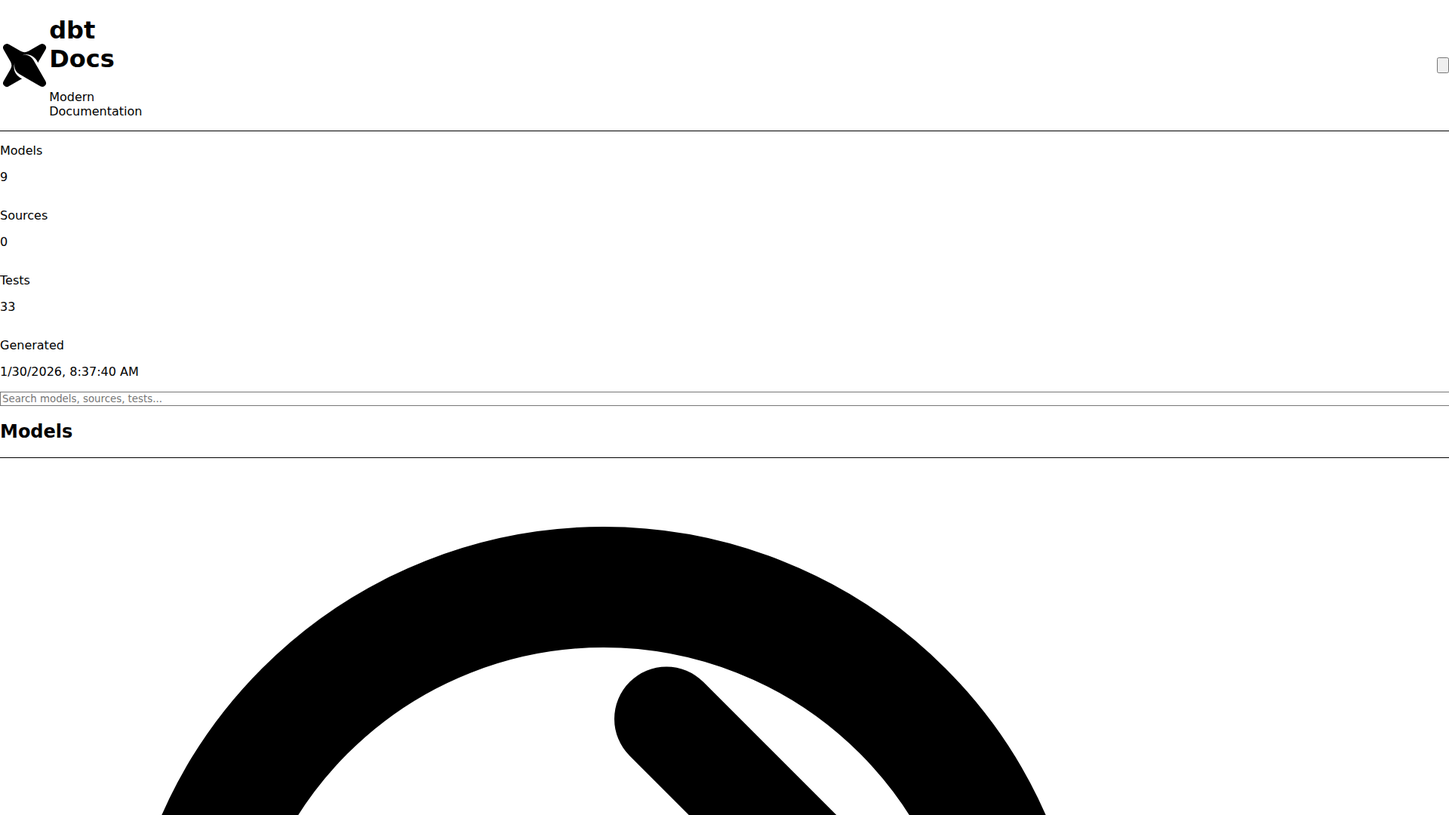
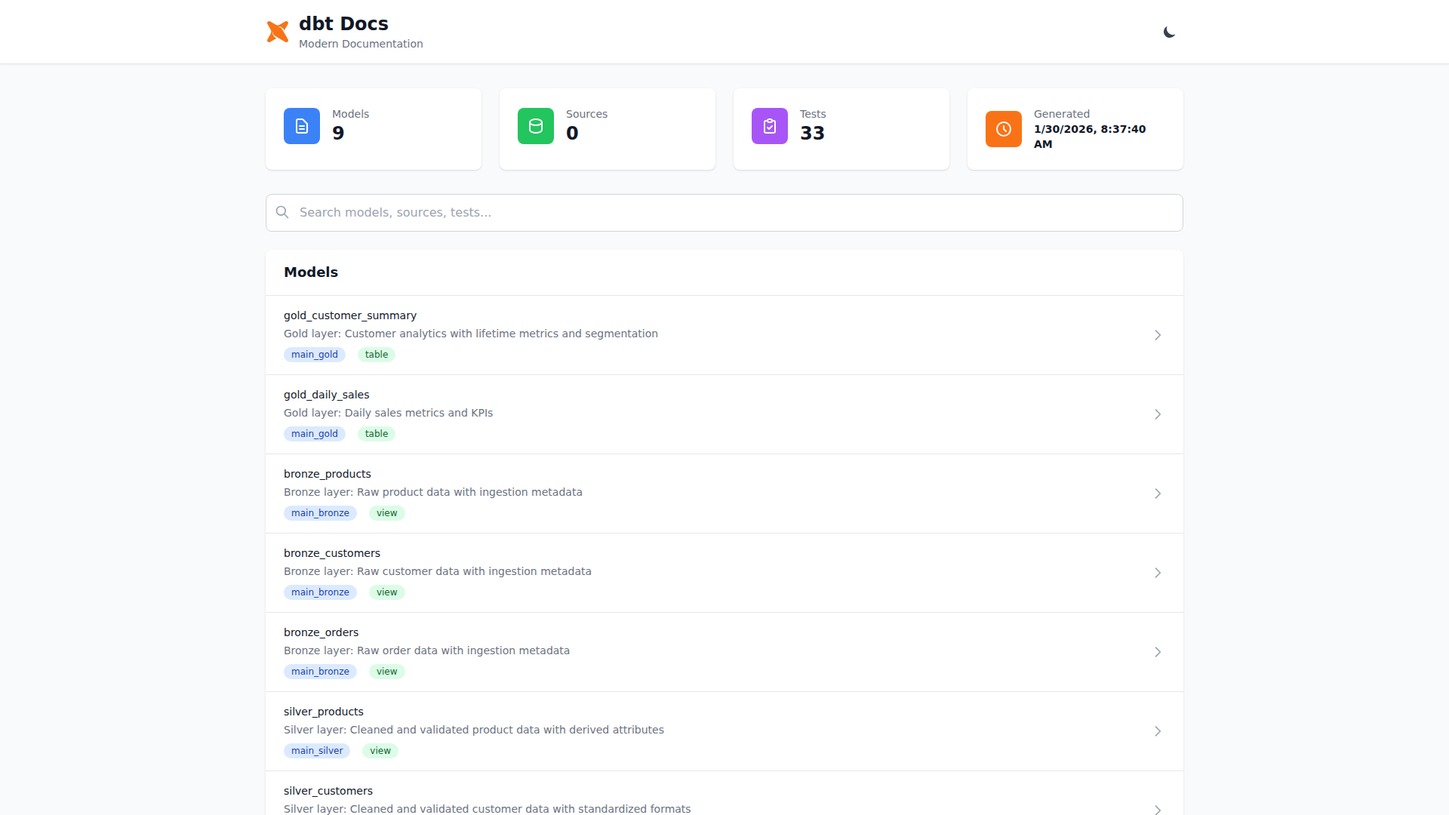
Fix: Update modern-docs.html with proper Tailwind 3 CSS
- All styles now properly rendered
- File size: 30KB (was 22KB, now includes all utility classes)
- Beautiful modern UI with correct colors, spacing, shadows
- Updated screenshot

diff --git a/demo/modern-docs.html b/demo/modern-docs.html
@@ -5,7 +5,7 @@
     <meta name="viewport" content="width=device-width, initial-scale=1.0" />
     <title>dbt Docs - Modern</title>
     <script type="module" crossorigin>(function(){const e=document.createElement("link").relList;if(e&&e.supports&&e.supports("modulepreload"))return;for(const s of document.querySelectorAll('link[rel="modulepreload"]'))i(s);new MutationObserver(s=>{for(const o of s)if(o.type==="childList")for(const g of o.addedNodes)g.tagName==="LINK"&&g.rel==="modulepreload"&&i(g)}).observe(document,{childList:!0,subtree:!0});function l(s){const o={};return s.integrity&&(o.integrity=s.integrity),s.referrerPolicy&&(o.referrerPolicy=s.referrerPolicy),s.crossOrigin==="use-credentials"?o.credentials="include":s.crossOrigin==="anonymous"?o.credentials="omit":o.credentials="same-origin",o}function i(s){if(s.ep)return;s.ep=!0;const o=l(s);fetch(s.href,o)}})();function Z(){}function qe(t){return t()}function Ae(){return Object.create(null)}function fe(t){t.forEach(qe)}function Ge(t){return typeof t=="function"}function Qe(t,e){return t!=t?e==e:t!==e||t&&typeof t=="object"||typeof t=="function"}function Ue(t){return Object.keys(t).length===0}function r(t,e){t.appendChild(e)}function B(t,e,l){t.insertBefore(e,l||null)}function z(t){t.parentNode&&t.parentNode.removeChild(t)}function Ze(t,e){for(let l=0;l<t.length;l+=1)t[l]&&t[l].d(e)}function a(t){return document.createElement(t)}function S(t){return document.createElementNS("http://www.w3.org/2000/svg",t)}function C(t){return document.createTextNode(t)}function m(){return C(" ")}function Je(t,e,l,i){return t.addEventListener(e,l,i),()=>t.removeEventListener(e,l,i)}function n(t,e,l){l==null?t.removeAttribute(e):t.getAttribute(e)!==l&&t.setAttribute(e,l)}function We(t){return Array.from(t.childNodes)}function O(t,e){e=""+e,t.data!==e&&(t.data=e)}function He(t,e){t.value=e??""}let W;function J(t){W=t}function Xe(){if(!W)throw new Error("Function called outside component initialization");return W}function Ye(t){Xe().$$.on_mount.push(t)}const Q=[],Ne=[];let U=[];const Se=[],et=Promise.resolve();let xe=!1;function tt(){xe||(xe=!0,et.then(Ke))}function _e(t){U.push(t)}const be=new Set;let K=0;function Ke(){if(K!==0)return;const t=W;do{try{for(;K<Q.length;){const e=Q[K];K++,J(e),lt(e.$$)}}catch(e){throw Q.length=0,K=0,e}for(J(null),Q.length=0,K=0;Ne.length;)Ne.pop()();for(let e=0;e<U.length;e+=1){const l=U[e];be.has(l)||(be.add(l),l())}U.length=0}while(Q.length);for(;Se.length;)Se.pop()();xe=!1,be.clear(),J(t)}function lt(t){if(t.fragment!==null){t.update(),fe(t.before_update);const e=t.dirty;t.dirty=[-1],t.fragment&&t.fragment.p(t.ctx,e),t.after_update.forEach(_e)}}function rt(t){const e=[],l=[];U.forEach(i=>t.indexOf(i)===-1?e.push(i):l.push(i)),l.forEach(i=>i()),U=e}const nt=new Set;function it(t,e){t&&t.i&&(nt.delete(t),t.i(e))}function Te(t){return t?.length!==void 0?t:Array.from(t)}function st(t,e,l){const{fragment:i,after_update:s}=t.$$;i&&i.m(e,l),_e(()=>{const o=t.$$.on_mount.map(qe).filter(Ge);t.$$.on_destroy?t.$$.on_destroy.push(...o):fe(o),t.$$.on_mount=[]}),s.forEach(_e)}function ot(t,e){const l=t.$$;l.fragment!==null&&(rt(l.after_update),fe(l.on_destroy),l.fragment&&l.fragment.d(e),l.on_destroy=l.fragment=null,l.ctx=[])}function at(t,e){t.$$.dirty[0]===-1&&(Q.push(t),tt(),t.$$.dirty.fill(0)),t.$$.dirty[e/31|0]|=1<<e%31}function dt(t,e,l,i,s,o,g=null,u=[-1]){const v=W;J(t);const c=t.$$={fragment:null,ctx:[],props:o,update:Z,not_equal:s,bound:Ae(),on_mount:[],on_destroy:[],on_disconnect:[],before_update:[],after_update:[],context:new Map(e.context||(v?v.$$.context:[])),callbacks:Ae(),dirty:u,skip_bound:!1,root:e.target||v.$$.root};g&&g(c.root);let x=!1;if(c.ctx=l?l(t,e.props||{},(f,_,...L)=>{const p=L.length?L[0]:_;return c.ctx&&s(c.ctx[f],c.ctx[f]=p)&&(!c.skip_bound&&c.bound[f]&&c.bound[f](p),x&&at(t,f)),_}):[],c.update(),x=!0,fe(c.before_update),c.fragment=i?i(c.ctx):!1,e.target){if(e.hydrate){const f=We(e.target);c.fragment&&c.fragment.l(f),f.forEach(z)}else c.fragment&&c.fragment.c();e.intro&&it(t.$$.fragment),st(t,e.target,e.anchor),Ke()}J(v)}class ct{$$=void 0;$$set=void 0;$destroy(){ot(this,1),this.$destroy=Z}$on(e,l){if(!Ge(l))return Z;const i=this.$$.callbacks[e]||(this.$$.callbacks[e]=[]);return i.push(l),()=>{const s=i.indexOf(l);s!==-1&&i.splice(s,1)}}$set(e){this.$$set&&!Ue(e)&&(this.$$.skip_bound=!0,this.$$set(e),this.$$.skip_bound=!1)}}const ut="4";typeof window<"u"&&(window.__svelte||(window.__svelte={v:new Set})).v.add(ut);function Pe(t,e,l){const i=t.slice();return i[12]=e[l],i}function ft(t){let e,l;return{c(){e=S("svg"),l=S("path"),n(l,"d","M17.293 13.293A8 8 0 016.707 2.707a8.001 8.001 0 1010.586 10.586z"),n(e,"class","w-5 h-5 text-gray-700"),n(e,"fill","currentColor"),n(e,"viewBox","0 0 20 20")},m(i,s){B(i,e,s),r(e,l)},d(i){i&&z(e)}}}function gt(t){let e,l;return{c(){e=S("svg"),l=S("path"),n(l,"d","M10 2a1 1 0 011 1v1a1 1 0 11-2 0V3a1 1 0 011-1zm4 8a4 4 0 11-8 0 4 4 0 018 0zm-.464 4.95l.707.707a1 1 0 001.414-1.414l-.707-.707a1 1 0 00-1.414 1.414zm2.12-10.607a1 1 0 010 1.414l-.706.707a1 1 0 11-1.414-1.414l.707-.707a1 1 0 011.414 0zM17 11a1 1 0 100-2h-1a1 1 0 100 2h1zm-7 4a1 1 0 011 1v1a1 1 0 11-2 0v-1a1 1 0 011-1zM5.05 6.464A1 1 0 106.465 5.05l-.708-.707a1 1 0 00-1.414 1.414l.707.707zm1.414 8.486l-.707.707a1 1 0 01-1.414-1.414l.707-.707a1 1 0 011.414 1.414zM4 11a1 1 0 100-2H3a1 1 0 000 2h1z"),n(e,"class","w-5 h-5 text-yellow-500"),n(e,"fill","currentColor"),n(e,"viewBox","0 0 20 20")},m(i,s){B(i,e,s),r(e,l)},d(i){i&&z(e)}}}function ht(t){let e,l,i,s,o,g,u,v,c,x,f=t[2].length+"",_,L,p,d,y,k,b,w,A,X,Y=t[8].length+"",ge,ye,ee,P,te,ke,D,le,we,re,ne=t[7].length+"",he,Me,ie,V,se,Le,I,oe,$e,ae,de=Re(t[0].metadata.generated_at)+"",pe,je,ce,F,H,Ce,T,R,ze,q,ue,Ee,N,me,ve,Oe,G=Te(t[6].slice(0,20)),$=[];for(let h=0;h<G.length;h+=1)$[h]=Ie(Pe(t,G,h));let j=t[6].length===0&&Fe(t);return{c(){e=a("div"),l=a("div"),i=a("div"),s=a("div"),o=a("div"),o.innerHTML='<svg class="w-6 h-6 text-white" fill="none" stroke="currentColor" viewBox="0 0 24 24"><path stroke-linecap="round" stroke-linejoin="round" stroke-width="2" d="M9 12h6m-6 4h6m2 5H7a2 2 0 01-2-2V5a2 2 0 012-2h5.586a1 1 0 01.707.293l5.414 5.414a1 1 0 01.293.707V19a2 2 0 01-2 2z"></path></svg>',g=m(),u=a("div"),v=a("p"),v.textContent="Models",c=m(),x=a("p"),_=C(f),L=m(),p=a("div"),d=a("div"),y=a("div"),y.innerHTML='<svg class="w-6 h-6 text-white" fill="none" stroke="currentColor" viewBox="0 0 24 24"><path stroke-linecap="round" stroke-linejoin="round" stroke-width="2" d="M4 7v10c0 2.21 3.582 4 8 4s8-1.79 8-4V7M4 7c0 2.21 3.582 4 8 4s8-1.79 8-4M4 7c0-2.21 3.582-4 8-4s8 1.79 8 4"></path></svg>',k=m(),b=a("div"),w=a("p"),w.textContent="Sources",A=m(),X=a("p"),ge=C(Y),ye=m(),ee=a("div"),P=a("div"),te=a("div"),te.innerHTML='<svg class="w-6 h-6 text-white" fill="none" stroke="currentColor" viewBox="0 0 24 24"><path stroke-linecap="round" stroke-linejoin="round" stroke-width="2" d="M9 5H7a2 2 0 00-2 2v12a2 2 0 002 2h10a2 2 0 002-2V7a2 2 0 00-2-2h-2M9 5a2 2 0 002 2h2a2 2 0 002-2M9 5a2 2 0 012-2h2a2 2 0 012 2m-6 9l2 2 4-4"></path></svg>',ke=m(),D=a("div"),le=a("p"),le.textContent="Tests",we=m(),re=a("p"),he=C(ne),Me=m(),ie=a("div"),V=a("div"),se=a("div"),se.innerHTML='<svg class="w-6 h-6 text-white" fill="none" stroke="currentColor" viewBox="0 0 24 24"><path stroke-linecap="round" stroke-linejoin="round" stroke-width="2" d="M12 8v4l3 3m6-3a9 9 0 11-18 0 9 9 0 0118 0z"></path></svg>',Le=m(),I=a("div"),oe=a("p"),oe.textContent="Generated",$e=m(),ae=a("p"),pe=C(de),je=m(),ce=a("div"),F=a("div"),H=a("input"),Ce=m(),T=S("svg"),R=S("path"),ze=m(),q=a("div"),ue=a("div"),ue.innerHTML='<h2 class="text-lg font-semibold text-gray-900 dark:text-white">Models</h2>',Ee=m(),N=a("div");for(let h=0;h<$.length;h+=1)$[h].c();me=m(),j&&j.c(),n(o,"class","flex-shrink-0 bg-blue-500 rounded-lg p-3"),n(v,"class","text-sm font-medium text-gray-500 dark:text-gray-400"),n(x,"class","text-2xl font-semibold text-gray-900 dark:text-white"),n(u,"class","ml-4"),n(s,"class","flex items-center"),n(i,"class","bg-white dark:bg-gray-800 rounded-lg shadow p-6"),n(y,"class","flex-shrink-0 bg-green-500 rounded-lg p-3"),n(w,"class","text-sm font-medium text-gray-500 dark:text-gray-400"),n(X,"class","text-2xl font-semibold text-gray-900 dark:text-white"),n(b,"class","ml-4"),n(d,"class","flex items-center"),n(p,"class","bg-white dark:bg-gray-800 rounded-lg shadow p-6"),n(te,"class","flex-shrink-0 bg-purple-500 rounded-lg p-3"),n(le,"class","text-sm font-medium text-gray-500 dark:text-gray-400"),n(re,"class","text-2xl font-semibold text-gray-900 dark:text-white"),n(D,"class","ml-4"),n(P,"class","flex items-center"),n(ee,"class","bg-white dark:bg-gray-800 rounded-lg shadow p-6"),n(se,"class","flex-shrink-0 bg-orange-500 rounded-lg p-3"),n(oe,"class","text-sm font-medium text-gray-500 dark:text-gray-400"),n(ae,"class","text-sm font-semibold text-gray-900 dark:text-white"),n(I,"class","ml-4"),n(V,"class","flex items-center"),n(ie,"class","bg-white dark:bg-gray-800 rounded-lg shadow p-6"),n(l,"class","grid grid-cols-1 md:grid-cols-4 gap-6 mb-8"),n(H,"type","text"),n(H,"placeholder","Search models, sources, tests..."),n(H,"class","w-full px-4 py-3 pl-11 rounded-lg border border-gray-300 dark:border-gray-600 bg-white dark:bg-gray-800 text-gray-900 dark:text-white focus:ring-2 focus:ring-orange-500 focus:border-transparent"),n(R,"stroke-linecap","round"),n(R,"stroke-linejoin","round"),n(R,"stroke-width","2"),n(R,"d","M21 21l-6-6m2-5a7 7 0 11-14 0 7 7 0 0114 0z"),n(T,"class","absolute left-3 top-3.5 w-5 h-5 text-gray-400"),n(T,"fill","none"),n(T,"stroke","currentColor"),n(T,"viewBox","0 0 24 24"),n(F,"class","relative"),n(ce,"class","mb-6"),n(ue,"class","px-6 py-4 border-b border-gray-200 dark:border-gray-700"),n(N,"class","divide-y divide-gray-200 dark:divide-gray-700"),n(q,"class","bg-white dark:bg-gray-800 rounded-lg shadow"),n(e,"class","max-w-7xl mx-auto px-4 sm:px-6 lg:px-8 py-8")},m(h,E){B(h,e,E),r(e,l),r(l,i),r(i,s),r(s,o),r(s,g),r(s,u),r(u,v),r(u,c),r(u,x),r(x,_),r(l,L),r(l,p),r(p,d),r(d,y),r(d,k),r(d,b),r(b,w),r(b,A),r(b,X),r(X,ge),r(l,ye),r(l,ee),r(ee,P),r(P,te),r(P,ke),r(P,D),r(D,le),r(D,we),r(D,re),r(re,he),r(l,Me),r(l,ie),r(ie,V),r(V,se),r(V,Le),r(V,I),r(I,oe),r(I,$e),r(I,ae),r(ae,pe),r(e,je),r(e,ce),r(ce,F),r(F,H),He(H,t[1]),r(F,Ce),r(F,T),r(T,R),r(e,ze),r(e,q),r(q,ue),r(q,Ee),r(q,N);for(let M=0;M<$.length;M+=1)$[M]&&$[M].m(N,null);r(N,me),j&&j.m(N,null),ve||(Oe=Je(H,"input",t[10]),ve=!0)},p(h,E){if(E&4&&f!==(f=h[2].length+"")&&O(_,f),E&256&&Y!==(Y=h[8].length+"")&&O(ge,Y),E&128&&ne!==(ne=h[7].length+"")&&O(he,ne),E&1&&de!==(de=Re(h[0].metadata.generated_at)+"")&&O(pe,de),E&2&&H.value!==h[1]&&He(H,h[1]),E&64){G=Te(h[6].slice(0,20));let M;for(M=0;M<G.length;M+=1){const Be=Pe(h,G,M);$[M]?$[M].p(Be,E):($[M]=Ie(Be),$[M].c(),$[M].m(N,me))}for(;M<$.length;M+=1)$[M].d(1);$.length=G.length}h[6].length===0?j?j.p(h,E):(j=Fe(h),j.c(),j.m(N,null)):j&&(j.d(1),j=null)},d(h){h&&z(e),Ze($,h),j&&j.d(),ve=!1,Oe()}}}function pt(t){let e,l,i,s,o,g;return{c(){e=a("div"),l=a("div"),i=a("h2"),i.textContent="Error Loading Documentation",s=m(),o=a("p"),g=C(t[4]),n(i,"class","text-lg font-semibold text-red-800 dark:text-red-200 mb-2"),n(o,"class","text-red-600 dark:text-red-300"),n(l,"class","bg-red-50 dark:bg-red-900/20 border border-red-200 dark:border-red-800 rounded-lg p-6"),n(e,"class","max-w-7xl mx-auto px-4 sm:px-6 lg:px-8 py-8")},m(u,v){B(u,e,v),r(e,l),r(l,i),r(l,s),r(l,o),r(o,g)},p(u,v){v&16&&O(g,u[4])},d(u){u&&z(e)}}}function mt(t){let e;return{c(){e=a("div"),e.innerHTML='<div class="text-center"><div class="animate-spin rounded-full h-12 w-12 border-b-2 border-orange-500 mx-auto mb-4"></div> <p class="text-gray-600 dark:text-gray-400">Loading documentation...</p></div>',n(e,"class","flex items-center justify-center h-96")},m(l,i){B(l,e,i)},p:Z,d(l){l&&z(e)}}}function De(t){let e,l=t[12].description+"",i;return{c(){e=a("p"),i=C(l),n(e,"class","text-sm text-gray-500 dark:text-gray-400 mt-1")},m(s,o){B(s,e,o),r(e,i)},p(s,o){o&64&&l!==(l=s[12].description+"")&&O(i,l)},d(s){s&&z(e)}}}function Ve(t){let e,l=t[12].config.materialized+"",i;return{c(){e=a("span"),i=C(l),n(e,"class","inline-flex items-center px-2.5 py-0.5 rounded-full text-xs font-medium bg-green-100 text-green-800 dark:bg-green-900/30 dark:text-green-300")},m(s,o){B(s,e,o),r(e,i)},p(s,o){o&64&&l!==(l=s[12].config.materialized+"")&&O(i,l)},d(s){s&&z(e)}}}function Ie(t){let e,l,i,s,o=t[12].name+"",g,u,v,c,x,f=t[12].schema+"",_,L,p,d,y,k=t[12].description&&De(t),b=t[12].config?.materialized&&Ve(t);return{c(){e=a("div"),l=a("div"),i=a("div"),s=a("h3"),g=C(o),u=m(),k&&k.c(),v=m(),c=a("div"),x=a("span"),_=C(f),L=m(),b&&b.c(),p=m(),d=S("svg"),y=S("path"),n(s,"class","text-sm font-medium text-gray-900 dark:text-white"),n(x,"class","inline-flex items-center px-2.5 py-0.5 rounded-full text-xs font-medium bg-blue-100 text-blue-800 dark:bg-blue-900/30 dark:text-blue-300"),n(c,"class","flex items-center space-x-4 mt-2"),n(i,"class","flex-1"),n(y,"stroke-linecap","round"),n(y,"stroke-linejoin","round"),n(y,"stroke-width","2"),n(y,"d","M9 5l7 7-7 7"),n(d,"class","w-5 h-5 text-gray-400"),n(d,"fill","none"),n(d,"stroke","currentColor"),n(d,"viewBox","0 0 24 24"),n(l,"class","flex items-center justify-between"),n(e,"class","px-6 py-4 hover:bg-gray-50 dark:hover:bg-gray-700/50 transition-colors cursor-pointer")},m(w,A){B(w,e,A),r(e,l),r(l,i),r(i,s),r(s,g),r(i,u),k&&k.m(i,null),r(i,v),r(i,c),r(c,x),r(x,_),r(c,L),b&&b.m(c,null),r(l,p),r(l,d),r(d,y)},p(w,A){A&64&&o!==(o=w[12].name+"")&&O(g,o),w[12].description?k?k.p(w,A):(k=De(w),k.c(),k.m(i,v)):k&&(k.d(1),k=null),A&64&&f!==(f=w[12].schema+"")&&O(_,f),w[12].config?.materialized?b?b.p(w,A):(b=Ve(w),b.c(),b.m(c,null)):b&&(b.d(1),b=null)},d(w){w&&z(e),k&&k.d(),b&&b.d()}}}function Fe(t){let e,l,i,s;return{c(){e=a("div"),l=C('No models found matching "'),i=C(t[1]),s=C('"'),n(e,"class","px-6 py-8 text-center text-gray-500 dark:text-gray-400")},m(o,g){B(o,e,g),r(e,l),r(e,i),r(e,s)},p(o,g){g&2&&O(i,o[1])},d(o){o&&z(e)}}}function vt(t){let e,l,i,s,o,g,u,v;function c(d,y){return d[5]?gt:ft}let x=c(t),f=x(t);function _(d,y){return d[3]?mt:d[4]?pt:ht}let L=_(t),p=L(t);return{c(){e=a("main"),l=a("header"),i=a("div"),s=a("div"),o=a("div"),o.innerHTML='<svg class="w-8 h-8 text-orange-500" viewBox="0 0 16 16" fill="currentColor"><path d="M12.6,9.265l0,0L10.9,6.325a3.31,3.31,0,0,0-.529-.7h0a3.264,3.264,0,0,0-3.184-.867,4.022,4.022,0,0,1,4.194.938,3.977,3.977,0,0,1,.635.833l.38.657a2.488,2.488,0,0,1,.2-.465l2.226-3.851a1.2,1.2,0,0,0-.2-1.5,1.2,1.2,0,0,0-1.5-.2h0L9.27,3.4a2.539,2.539,0,0,1-2.54,0L2.877,1.178A1.253,1.253,0,0,0,2.247,1a1.247,1.247,0,0,0-.871.375,1.2,1.2,0,0,0-.2,1.5L3.4,6.726a2.542,2.542,0,0,1,0,2.539l-2.226,3.85a1.2,1.2,0,0,0,.2,1.5,1.2,1.2,0,0,0,1.5.2L6.73,12.588a2.455,2.455,0,0,1,.465-.2l-.657-.379a3.857,3.857,0,0,1-1.462-1.467,4.118,4.118,0,0,1-.288-3.368,3.453,3.453,0,0,0,.33,2.507A3.141,3.141,0,0,0,6.329,10.89l2.94,1.7h0l3.853,2.224a1.243,1.243,0,0,0,1.7-1.7Z"></path></svg> <div><h1 class="text-2xl font-bold text-gray-900 dark:text-white">dbt Docs</h1> <p class="text-sm text-gray-500 dark:text-gray-400">Modern Documentation</p></div>',g=m(),u=a("button"),f.c(),v=m(),p.c(),n(o,"class","flex items-center space-x-3"),n(u,"onclick",t[9]),n(u,"class","p-2 rounded-lg hover:bg-gray-100 dark:hover:bg-gray-700 transition-colors"),n(s,"class","flex items-center justify-between"),n(i,"class","max-w-7xl mx-auto px-4 sm:px-6 lg:px-8 py-4"),n(l,"class","bg-white dark:bg-gray-800 shadow-sm border-b border-gray-200 dark:border-gray-700"),n(e,"class","min-h-screen bg-gray-50 dark:bg-gray-900 transition-colors")},m(d,y){B(d,e,y),r(e,l),r(l,i),r(i,s),r(s,o),r(s,g),r(s,u),f.m(u,null),r(e,v),p.m(e,null)},p(d,[y]){x!==(x=c(d))&&(f.d(1),f=x(d),f&&(f.c(),f.m(u,null))),L===(L=_(d))&&p?p.p(d,y):(p.d(1),p=L(d),p&&(p.c(),p.m(e,null)))},i:Z,o:Z,d(d){d&&z(e),f.d(),p.d()}}}function Re(t){return new Date(t).toLocaleString()}function bt(t,e,l){let i,s,o,g,u=null,v=null,c=!0,x=null,f=!1,_="";Ye(async()=>{try{const[d,y]=await Promise.all([fetch("./manifest.json"),fetch("./catalog.json")]);l(0,u=await d.json()),v=await y.json(),l(3,c=!1)}catch{l(4,x="Failed to load dbt documentation files. Make sure manifest.json and catalog.json exist in the same directory."),l(3,c=!1)}});function L(){l(5,f=!f),f?document.documentElement.classList.add("dark"):document.documentElement.classList.remove("dark")}function p(){_=this.value,l(1,_)}return t.$$.update=()=>{t.$$.dirty&1&&l(2,i=u?Object.values(u.nodes||{}).filter(d=>d.resource_type==="model"):[]),t.$$.dirty&1&&l(8,s=u?Object.values(u.sources||{}):[]),t.$$.dirty&1&&l(7,o=u?Object.values(u.nodes||{}).filter(d=>d.resource_type==="test"):[]),t.$$.dirty&6&&l(6,g=i.filter(d=>_===""||d.name.toLowerCase().includes(_.toLowerCase())||d.description&&d.description.toLowerCase().includes(_.toLowerCase())))},[u,_,i,c,x,f,g,o,s,L,p]}class xt extends ct{constructor(e){super(),dt(this,e,bt,vt,Qe,{})}}new xt({target:document.getElementById("app")});</script>
-    <style rel="stylesheet" crossorigin>/*! tailwindcss v4.1.18 | MIT License | https://tailwindcss.com */@layer properties{@supports (((-webkit-hyphens:none)) and (not (margin-trim:inline))) or ((-moz-orient:inline) and (not (color:rgb(from red r g b)))){*,:before,:after,::backdrop{--tw-divide-y-reverse:0;--tw-border-style:solid;--tw-blur:initial;--tw-brightness:initial;--tw-contrast:initial;--tw-grayscale:initial;--tw-hue-rotate:initial;--tw-invert:initial;--tw-opacity:initial;--tw-saturate:initial;--tw-sepia:initial;--tw-drop-shadow:initial;--tw-drop-shadow-color:initial;--tw-drop-shadow-alpha:100%;--tw-drop-shadow-size:initial;--tw-shadow:0 0 #0000;--tw-shadow-color:initial;--tw-shadow-alpha:100%;--tw-inset-shadow:0 0 #0000;--tw-inset-shadow-color:initial;--tw-inset-shadow-alpha:100%;--tw-ring-color:initial;--tw-ring-shadow:0 0 #0000;--tw-inset-ring-color:initial;--tw-inset-ring-shadow:0 0 #0000;--tw-ring-inset:initial;--tw-ring-offset-width:0px;--tw-ring-offset-color:#fff;--tw-ring-offset-shadow:0 0 #0000}}}.absolute{position:absolute}.relative{position:relative}.static{position:static}.mx-auto{margin-inline:auto}.block{display:block}.flex{display:flex}.grid{display:grid}.inline-flex{display:inline-flex}.table{display:table}.min-h-screen{min-height:100vh}.w-full{width:100%}.flex-1{flex:1}.flex-shrink-0{flex-shrink:0}.cursor-pointer{cursor:pointer}.grid-cols-1{grid-template-columns:repeat(1,minmax(0,1fr))}.items-center{align-items:center}.justify-between{justify-content:space-between}.justify-center{justify-content:center}:where(.divide-y>:not(:last-child)){--tw-divide-y-reverse:0;border-bottom-style:var(--tw-border-style);border-top-style:var(--tw-border-style);border-top-width:calc(1px*var(--tw-divide-y-reverse));border-bottom-width:calc(1px*calc(1 - var(--tw-divide-y-reverse)))}.truncate{text-overflow:ellipsis;white-space:nowrap;overflow:hidden}.rounded-full{border-radius:3.40282e38px}.border{border-style:var(--tw-border-style);border-width:1px}.border-b{border-bottom-style:var(--tw-border-style);border-bottom-width:1px}.border-b-2{border-bottom-style:var(--tw-border-style);border-bottom-width:2px}.text-center{text-align:center}.filter{filter:var(--tw-blur,)var(--tw-brightness,)var(--tw-contrast,)var(--tw-grayscale,)var(--tw-hue-rotate,)var(--tw-invert,)var(--tw-saturate,)var(--tw-sepia,)var(--tw-drop-shadow,)}.transition-colors{transition-property:color,background-color,border-color,outline-color,text-decoration-color,fill,stroke,--tw-gradient-from,--tw-gradient-via,--tw-gradient-to;transition-timing-function:var(--tw-ease,ease);transition-duration:var(--tw-duration,0s)}.focus\:border-transparent:focus{border-color:#0000}.focus\:ring-2:focus{--tw-ring-shadow:var(--tw-ring-inset,)0 0 0 calc(2px + var(--tw-ring-offset-width))var(--tw-ring-color,currentcolor);box-shadow:var(--tw-inset-shadow),var(--tw-inset-ring-shadow),var(--tw-ring-offset-shadow),var(--tw-ring-shadow),var(--tw-shadow)}:root{--color-primary:#ff6b6b;--color-secondary:#4ecdc4;--color-bg:#fff;--color-text:#2d3748}.dark{--color-bg:#1a202c;--color-text:#e2e8f0}body{-webkit-font-smoothing:antialiased;-moz-osx-font-smoothing:grayscale;margin:0;font-family:-apple-system,BlinkMacSystemFont,Segoe UI,Roboto,Oxygen,Ubuntu,Cantarell,Fira Sans,Droid Sans,Helvetica Neue,sans-serif}@property --tw-divide-y-reverse{syntax:"*";inherits:false;initial-value:0}@property --tw-border-style{syntax:"*";inherits:false;initial-value:solid}@property --tw-blur{syntax:"*";inherits:false}@property --tw-brightness{syntax:"*";inherits:false}@property --tw-contrast{syntax:"*";inherits:false}@property --tw-grayscale{syntax:"*";inherits:false}@property --tw-hue-rotate{syntax:"*";inherits:false}@property --tw-invert{syntax:"*";inherits:false}@property --tw-opacity{syntax:"*";inherits:false}@property --tw-saturate{syntax:"*";inherits:false}@property --tw-sepia{syntax:"*";inherits:false}@property --tw-drop-shadow{syntax:"*";inherits:false}@property --tw-drop-shadow-color{syntax:"*";inherits:false}@property --tw-drop-shadow-alpha{syntax:"<percentage>";inherits:false;initial-value:100%}@property --tw-drop-shadow-size{syntax:"*";inherits:false}@property --tw-shadow{syntax:"*";inherits:false;initial-value:0 0 #0000}@property --tw-shadow-color{syntax:"*";inherits:false}@property --tw-shadow-alpha{syntax:"<percentage>";inherits:false;initial-value:100%}@property --tw-inset-shadow{syntax:"*";inherits:false;initial-value:0 0 #0000}@property --tw-inset-shadow-color{syntax:"*";inherits:false}@property --tw-inset-shadow-alpha{syntax:"<percentage>";inherits:false;initial-value:100%}@property --tw-ring-color{syntax:"*";inherits:false}@property --tw-ring-shadow{syntax:"*";inherits:false;initial-value:0 0 #0000}@property --tw-inset-ring-color{syntax:"*";inherits:false}@property --tw-inset-ring-shadow{syntax:"*";inherits:false;initial-value:0 0 #0000}@property --tw-ring-inset{syntax:"*";inherits:false}@property --tw-ring-offset-width{syntax:"<length>";inherits:false;initial-value:0}@property --tw-ring-offset-color{syntax:"*";inherits:false;initial-value:#fff}@property --tw-ring-offset-shadow{syntax:"*";inherits:false;initial-value:0 0 #0000}body{margin:0;padding:0}</style>
+    <style rel="stylesheet" crossorigin>*,:before,:after{--tw-border-spacing-x: 0;--tw-border-spacing-y: 0;--tw-translate-x: 0;--tw-translate-y: 0;--tw-rotate: 0;--tw-skew-x: 0;--tw-skew-y: 0;--tw-scale-x: 1;--tw-scale-y: 1;--tw-pan-x: ;--tw-pan-y: ;--tw-pinch-zoom: ;--tw-scroll-snap-strictness: proximity;--tw-gradient-from-position: ;--tw-gradient-via-position: ;--tw-gradient-to-position: ;--tw-ordinal: ;--tw-slashed-zero: ;--tw-numeric-figure: ;--tw-numeric-spacing: ;--tw-numeric-fraction: ;--tw-ring-inset: ;--tw-ring-offset-width: 0px;--tw-ring-offset-color: #fff;--tw-ring-color: rgb(59 130 246 / .5);--tw-ring-offset-shadow: 0 0 #0000;--tw-ring-shadow: 0 0 #0000;--tw-shadow: 0 0 #0000;--tw-shadow-colored: 0 0 #0000;--tw-blur: ;--tw-brightness: ;--tw-contrast: ;--tw-grayscale: ;--tw-hue-rotate: ;--tw-invert: ;--tw-saturate: ;--tw-sepia: ;--tw-drop-shadow: ;--tw-backdrop-blur: ;--tw-backdrop-brightness: ;--tw-backdrop-contrast: ;--tw-backdrop-grayscale: ;--tw-backdrop-hue-rotate: ;--tw-backdrop-invert: ;--tw-backdrop-opacity: ;--tw-backdrop-saturate: ;--tw-backdrop-sepia: ;--tw-contain-size: ;--tw-contain-layout: ;--tw-contain-paint: ;--tw-contain-style: }::backdrop{--tw-border-spacing-x: 0;--tw-border-spacing-y: 0;--tw-translate-x: 0;--tw-translate-y: 0;--tw-rotate: 0;--tw-skew-x: 0;--tw-skew-y: 0;--tw-scale-x: 1;--tw-scale-y: 1;--tw-pan-x: ;--tw-pan-y: ;--tw-pinch-zoom: ;--tw-scroll-snap-strictness: proximity;--tw-gradient-from-position: ;--tw-gradient-via-position: ;--tw-gradient-to-position: ;--tw-ordinal: ;--tw-slashed-zero: ;--tw-numeric-figure: ;--tw-numeric-spacing: ;--tw-numeric-fraction: ;--tw-ring-inset: ;--tw-ring-offset-width: 0px;--tw-ring-offset-color: #fff;--tw-ring-color: rgb(59 130 246 / .5);--tw-ring-offset-shadow: 0 0 #0000;--tw-ring-shadow: 0 0 #0000;--tw-shadow: 0 0 #0000;--tw-shadow-colored: 0 0 #0000;--tw-blur: ;--tw-brightness: ;--tw-contrast: ;--tw-grayscale: ;--tw-hue-rotate: ;--tw-invert: ;--tw-saturate: ;--tw-sepia: ;--tw-drop-shadow: ;--tw-backdrop-blur: ;--tw-backdrop-brightness: ;--tw-backdrop-contrast: ;--tw-backdrop-grayscale: ;--tw-backdrop-hue-rotate: ;--tw-backdrop-invert: ;--tw-backdrop-opacity: ;--tw-backdrop-saturate: ;--tw-backdrop-sepia: ;--tw-contain-size: ;--tw-contain-layout: ;--tw-contain-paint: ;--tw-contain-style: }*,:before,:after{box-sizing:border-box;border-width:0;border-style:solid;border-color:#e5e7eb}:before,:after{--tw-content: ""}html,:host{line-height:1.5;-webkit-text-size-adjust:100%;-moz-tab-size:4;-o-tab-size:4;tab-size:4;font-family:ui-sans-serif,system-ui,sans-serif,"Apple Color Emoji","Segoe UI Emoji",Segoe UI Symbol,"Noto Color Emoji";font-feature-settings:normal;font-variation-settings:normal;-webkit-tap-highlight-color:transparent}body{margin:0;line-height:inherit}hr{height:0;color:inherit;border-top-width:1px}abbr:where([title]){-webkit-text-decoration:underline dotted;text-decoration:underline dotted}h1,h2,h3,h4,h5,h6{font-size:inherit;font-weight:inherit}a{color:inherit;text-decoration:inherit}b,strong{font-weight:bolder}code,kbd,samp,pre{font-family:ui-monospace,SFMono-Regular,Menlo,Monaco,Consolas,Liberation Mono,Courier New,monospace;font-feature-settings:normal;font-variation-settings:normal;font-size:1em}small{font-size:80%}sub,sup{font-size:75%;line-height:0;position:relative;vertical-align:baseline}sub{bottom:-.25em}sup{top:-.5em}table{text-indent:0;border-color:inherit;border-collapse:collapse}button,input,optgroup,select,textarea{font-family:inherit;font-feature-settings:inherit;font-variation-settings:inherit;font-size:100%;font-weight:inherit;line-height:inherit;letter-spacing:inherit;color:inherit;margin:0;padding:0}button,select{text-transform:none}button,input:where([type=button]),input:where([type=reset]),input:where([type=submit]){-webkit-appearance:button;background-color:transparent;background-image:none}:-moz-focusring{outline:auto}:-moz-ui-invalid{box-shadow:none}progress{vertical-align:baseline}::-webkit-inner-spin-button,::-webkit-outer-spin-button{height:auto}[type=search]{-webkit-appearance:textfield;outline-offset:-2px}::-webkit-search-decoration{-webkit-appearance:none}::-webkit-file-upload-button{-webkit-appearance:button;font:inherit}summary{display:list-item}blockquote,dl,dd,h1,h2,h3,h4,h5,h6,hr,figure,p,pre{margin:0}fieldset{margin:0;padding:0}legend{padding:0}ol,ul,menu{list-style:none;margin:0;padding:0}dialog{padding:0}textarea{resize:vertical}input::-moz-placeholder,textarea::-moz-placeholder{opacity:1;color:#9ca3af}input::placeholder,textarea::placeholder{opacity:1;color:#9ca3af}button,[role=button]{cursor:pointer}:disabled{cursor:default}img,svg,video,canvas,audio,iframe,embed,object{display:block;vertical-align:middle}img,video{max-width:100%;height:auto}[hidden]:where(:not([hidden=until-found])){display:none}.absolute{position:absolute}.relative{position:relative}.left-3{left:.75rem}.top-3\.5{top:.875rem}.mx-auto{margin-left:auto;margin-right:auto}.mb-2{margin-bottom:.5rem}.mb-4{margin-bottom:1rem}.mb-6{margin-bottom:1.5rem}.mb-8{margin-bottom:2rem}.ml-4{margin-left:1rem}.mt-1{margin-top:.25rem}.mt-2{margin-top:.5rem}.flex{display:flex}.inline-flex{display:inline-flex}.grid{display:grid}.h-12{height:3rem}.h-5{height:1.25rem}.h-6{height:1.5rem}.h-8{height:2rem}.h-96{height:24rem}.min-h-screen{min-height:100vh}.w-12{width:3rem}.w-5{width:1.25rem}.w-6{width:1.5rem}.w-8{width:2rem}.w-full{width:100%}.max-w-7xl{max-width:80rem}.flex-1{flex:1 1 0%}.flex-shrink-0{flex-shrink:0}@keyframes spin{to{transform:rotate(360deg)}}.animate-spin{animation:spin 1s linear infinite}.cursor-pointer{cursor:pointer}.grid-cols-1{grid-template-columns:repeat(1,minmax(0,1fr))}.items-center{align-items:center}.justify-center{justify-content:center}.justify-between{justify-content:space-between}.gap-6{gap:1.5rem}.space-x-3>:not([hidden])~:not([hidden]){--tw-space-x-reverse: 0;margin-right:calc(.75rem * var(--tw-space-x-reverse));margin-left:calc(.75rem * calc(1 - var(--tw-space-x-reverse)))}.space-x-4>:not([hidden])~:not([hidden]){--tw-space-x-reverse: 0;margin-right:calc(1rem * var(--tw-space-x-reverse));margin-left:calc(1rem * calc(1 - var(--tw-space-x-reverse)))}.divide-y>:not([hidden])~:not([hidden]){--tw-divide-y-reverse: 0;border-top-width:calc(1px * calc(1 - var(--tw-divide-y-reverse)));border-bottom-width:calc(1px * var(--tw-divide-y-reverse))}.divide-gray-200>:not([hidden])~:not([hidden]){--tw-divide-opacity: 1;border-color:rgb(229 231 235 / var(--tw-divide-opacity, 1))}.rounded-full{border-radius:9999px}.rounded-lg{border-radius:.5rem}.border{border-width:1px}.border-b{border-bottom-width:1px}.border-b-2{border-bottom-width:2px}.border-gray-200{--tw-border-opacity: 1;border-color:rgb(229 231 235 / var(--tw-border-opacity, 1))}.border-gray-300{--tw-border-opacity: 1;border-color:rgb(209 213 219 / var(--tw-border-opacity, 1))}.border-orange-500{--tw-border-opacity: 1;border-color:rgb(249 115 22 / var(--tw-border-opacity, 1))}.border-red-200{--tw-border-opacity: 1;border-color:rgb(254 202 202 / var(--tw-border-opacity, 1))}.bg-blue-100{--tw-bg-opacity: 1;background-color:rgb(219 234 254 / var(--tw-bg-opacity, 1))}.bg-blue-500{--tw-bg-opacity: 1;background-color:rgb(59 130 246 / var(--tw-bg-opacity, 1))}.bg-gray-50{--tw-bg-opacity: 1;background-color:rgb(249 250 251 / var(--tw-bg-opacity, 1))}.bg-green-100{--tw-bg-opacity: 1;background-color:rgb(220 252 231 / var(--tw-bg-opacity, 1))}.bg-green-500{--tw-bg-opacity: 1;background-color:rgb(34 197 94 / var(--tw-bg-opacity, 1))}.bg-orange-500{--tw-bg-opacity: 1;background-color:rgb(249 115 22 / var(--tw-bg-opacity, 1))}.bg-purple-500{--tw-bg-opacity: 1;background-color:rgb(168 85 247 / var(--tw-bg-opacity, 1))}.bg-red-50{--tw-bg-opacity: 1;background-color:rgb(254 242 242 / var(--tw-bg-opacity, 1))}.bg-white{--tw-bg-opacity: 1;background-color:rgb(255 255 255 / var(--tw-bg-opacity, 1))}.p-2{padding:.5rem}.p-3{padding:.75rem}.p-6{padding:1.5rem}.px-2\.5{padding-left:.625rem;padding-right:.625rem}.px-4{padding-left:1rem;padding-right:1rem}.px-6{padding-left:1.5rem;padding-right:1.5rem}.py-0\.5{padding-top:.125rem;padding-bottom:.125rem}.py-3{padding-top:.75rem;padding-bottom:.75rem}.py-4{padding-top:1rem;padding-bottom:1rem}.py-8{padding-top:2rem;padding-bottom:2rem}.pl-11{padding-left:2.75rem}.text-center{text-align:center}.text-2xl{font-size:1.5rem;line-height:2rem}.text-lg{font-size:1.125rem;line-height:1.75rem}.text-sm{font-size:.875rem;line-height:1.25rem}.text-xs{font-size:.75rem;line-height:1rem}.font-bold{font-weight:700}.font-medium{font-weight:500}.font-semibold{font-weight:600}.text-blue-800{--tw-text-opacity: 1;color:rgb(30 64 175 / var(--tw-text-opacity, 1))}.text-gray-400{--tw-text-opacity: 1;color:rgb(156 163 175 / var(--tw-text-opacity, 1))}.text-gray-500{--tw-text-opacity: 1;color:rgb(107 114 128 / var(--tw-text-opacity, 1))}.text-gray-600{--tw-text-opacity: 1;color:rgb(75 85 99 / var(--tw-text-opacity, 1))}.text-gray-700{--tw-text-opacity: 1;color:rgb(55 65 81 / var(--tw-text-opacity, 1))}.text-gray-900{--tw-text-opacity: 1;color:rgb(17 24 39 / var(--tw-text-opacity, 1))}.text-green-800{--tw-text-opacity: 1;color:rgb(22 101 52 / var(--tw-text-opacity, 1))}.text-orange-500{--tw-text-opacity: 1;color:rgb(249 115 22 / var(--tw-text-opacity, 1))}.text-red-600{--tw-text-opacity: 1;color:rgb(220 38 38 / var(--tw-text-opacity, 1))}.text-red-800{--tw-text-opacity: 1;color:rgb(153 27 27 / var(--tw-text-opacity, 1))}.text-white{--tw-text-opacity: 1;color:rgb(255 255 255 / var(--tw-text-opacity, 1))}.text-yellow-500{--tw-text-opacity: 1;color:rgb(234 179 8 / var(--tw-text-opacity, 1))}.shadow{--tw-shadow: 0 1px 3px 0 rgb(0 0 0 / .1), 0 1px 2px -1px rgb(0 0 0 / .1);--tw-shadow-colored: 0 1px 3px 0 var(--tw-shadow-color), 0 1px 2px -1px var(--tw-shadow-color);box-shadow:var(--tw-ring-offset-shadow, 0 0 #0000),var(--tw-ring-shadow, 0 0 #0000),var(--tw-shadow)}.shadow-sm{--tw-shadow: 0 1px 2px 0 rgb(0 0 0 / .05);--tw-shadow-colored: 0 1px 2px 0 var(--tw-shadow-color);box-shadow:var(--tw-ring-offset-shadow, 0 0 #0000),var(--tw-ring-shadow, 0 0 #0000),var(--tw-shadow)}.filter{filter:var(--tw-blur) var(--tw-brightness) var(--tw-contrast) var(--tw-grayscale) var(--tw-hue-rotate) var(--tw-invert) var(--tw-saturate) var(--tw-sepia) var(--tw-drop-shadow)}.transition-colors{transition-property:color,background-color,border-color,text-decoration-color,fill,stroke;transition-timing-function:cubic-bezier(.4,0,.2,1);transition-duration:.15s}:root{--color-primary: #ff6b6b;--color-secondary: #4ecdc4;--color-bg: #ffffff;--color-text: #2d3748}.dark{--color-bg: #1a202c;--color-text: #e2e8f0}body{margin:0;font-family:-apple-system,BlinkMacSystemFont,Segoe UI,Roboto,Oxygen,Ubuntu,Cantarell,Fira Sans,Droid Sans,Helvetica Neue,sans-serif;-webkit-font-smoothing:antialiased;-moz-osx-font-smoothing:grayscale}.hover\:bg-gray-100:hover{--tw-bg-opacity: 1;background-color:rgb(243 244 246 / var(--tw-bg-opacity, 1))}.hover\:bg-gray-50:hover{--tw-bg-opacity: 1;background-color:rgb(249 250 251 / var(--tw-bg-opacity, 1))}.focus\:border-transparent:focus{border-color:transparent}.focus\:ring-2:focus{--tw-ring-offset-shadow: var(--tw-ring-inset) 0 0 0 var(--tw-ring-offset-width) var(--tw-ring-offset-color);--tw-ring-shadow: var(--tw-ring-inset) 0 0 0 calc(2px + var(--tw-ring-offset-width)) var(--tw-ring-color);box-shadow:var(--tw-ring-offset-shadow),var(--tw-ring-shadow),var(--tw-shadow, 0 0 #0000)}.focus\:ring-orange-500:focus{--tw-ring-opacity: 1;--tw-ring-color: rgb(249 115 22 / var(--tw-ring-opacity, 1))}@media (min-width: 640px){.sm\:px-6{padding-left:1.5rem;padding-right:1.5rem}}@media (min-width: 768px){.md\:grid-cols-4{grid-template-columns:repeat(4,minmax(0,1fr))}}@media (min-width: 1024px){.lg\:px-8{padding-left:2rem;padding-right:2rem}}@media (prefers-color-scheme: dark){.dark\:divide-gray-700>:not([hidden])~:not([hidden]){--tw-divide-opacity: 1;border-color:rgb(55 65 81 / var(--tw-divide-opacity, 1))}.dark\:border-gray-600{--tw-border-opacity: 1;border-color:rgb(75 85 99 / var(--tw-border-opacity, 1))}.dark\:border-gray-700{--tw-border-opacity: 1;border-color:rgb(55 65 81 / var(--tw-border-opacity, 1))}.dark\:border-red-800{--tw-border-opacity: 1;border-color:rgb(153 27 27 / var(--tw-border-opacity, 1))}.dark\:bg-blue-900\/30{background-color:#1e3a8a4d}.dark\:bg-gray-800{--tw-bg-opacity: 1;background-color:rgb(31 41 55 / var(--tw-bg-opacity, 1))}.dark\:bg-gray-900{--tw-bg-opacity: 1;background-color:rgb(17 24 39 / var(--tw-bg-opacity, 1))}.dark\:bg-green-900\/30{background-color:#14532d4d}.dark\:bg-red-900\/20{background-color:#7f1d1d33}.dark\:text-blue-300{--tw-text-opacity: 1;color:rgb(147 197 253 / var(--tw-text-opacity, 1))}.dark\:text-gray-400{--tw-text-opacity: 1;color:rgb(156 163 175 / var(--tw-text-opacity, 1))}.dark\:text-green-300{--tw-text-opacity: 1;color:rgb(134 239 172 / var(--tw-text-opacity, 1))}.dark\:text-red-200{--tw-text-opacity: 1;color:rgb(254 202 202 / var(--tw-text-opacity, 1))}.dark\:text-red-300{--tw-text-opacity: 1;color:rgb(252 165 165 / var(--tw-text-opacity, 1))}.dark\:text-white{--tw-text-opacity: 1;color:rgb(255 255 255 / var(--tw-text-opacity, 1))}.dark\:hover\:bg-gray-700:hover{--tw-bg-opacity: 1;background-color:rgb(55 65 81 / var(--tw-bg-opacity, 1))}.dark\:hover\:bg-gray-700\/50:hover{background-color:#37415180}}body{margin:0;padding:0}</style>
   </head>
   <body>
     <div id="app"></div>
